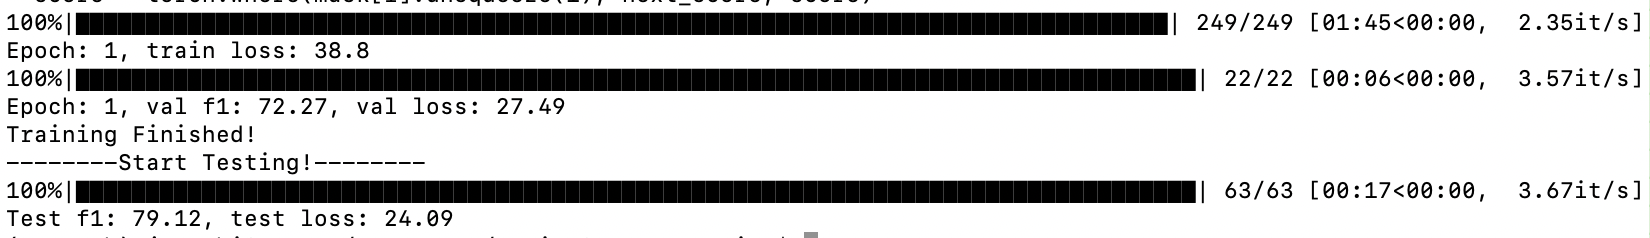
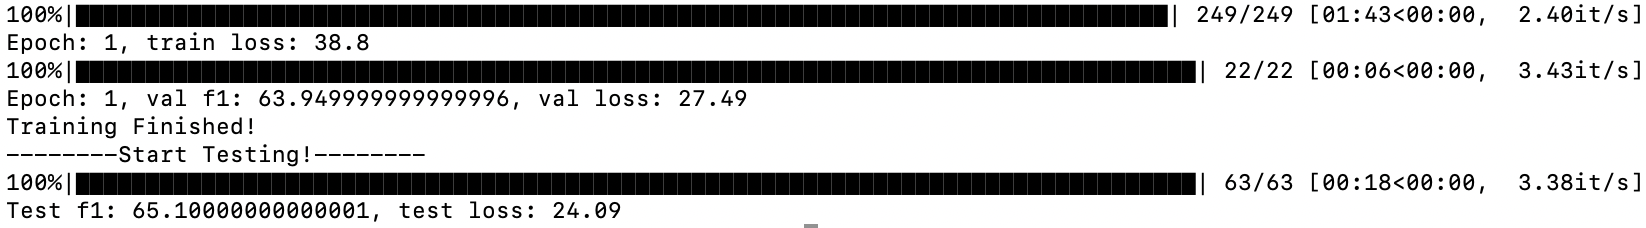
update performance

diff --git a/README.md b/README.md
@@ -1,21 +1,19 @@
 # Toxic_Span_Detection
 MSBD5018 NLP Group project
 
-2022/04/02 Baseline BERT+CRF f1 score 69.23
+2022/04/02 Baseline BERT+CRF f1 score 66
 
 2022/04/08
 Baseline
-- epoch=1, f1: 84.42
-- epoch=2, f1: 80.85
-- epoch=3, f1: 68.79
+- epoch=1, f1: 62.11
+- epoch=2, f1: 65.2
+- epoch=3, f1: 64.12
 
 Baseline + Fair Input (news-forward-fast)
-- epoch=1, f1: 77.57
-- epoch=2, f1: 69.33
-- epoch=3, f1: 65.00
+- epoch=1, f1: 64.92
+- epoch=2, f1: 59
 
 Baseline + Fair Input (news-backward-fast)
-- epoch=1, f1: 79.12
-- epoch=2, f1: 69.78
-- epoch=3, f1: 64.58
+- epoch=1, f1: 65.1
+- epoch=2, f1: 58.93
 
